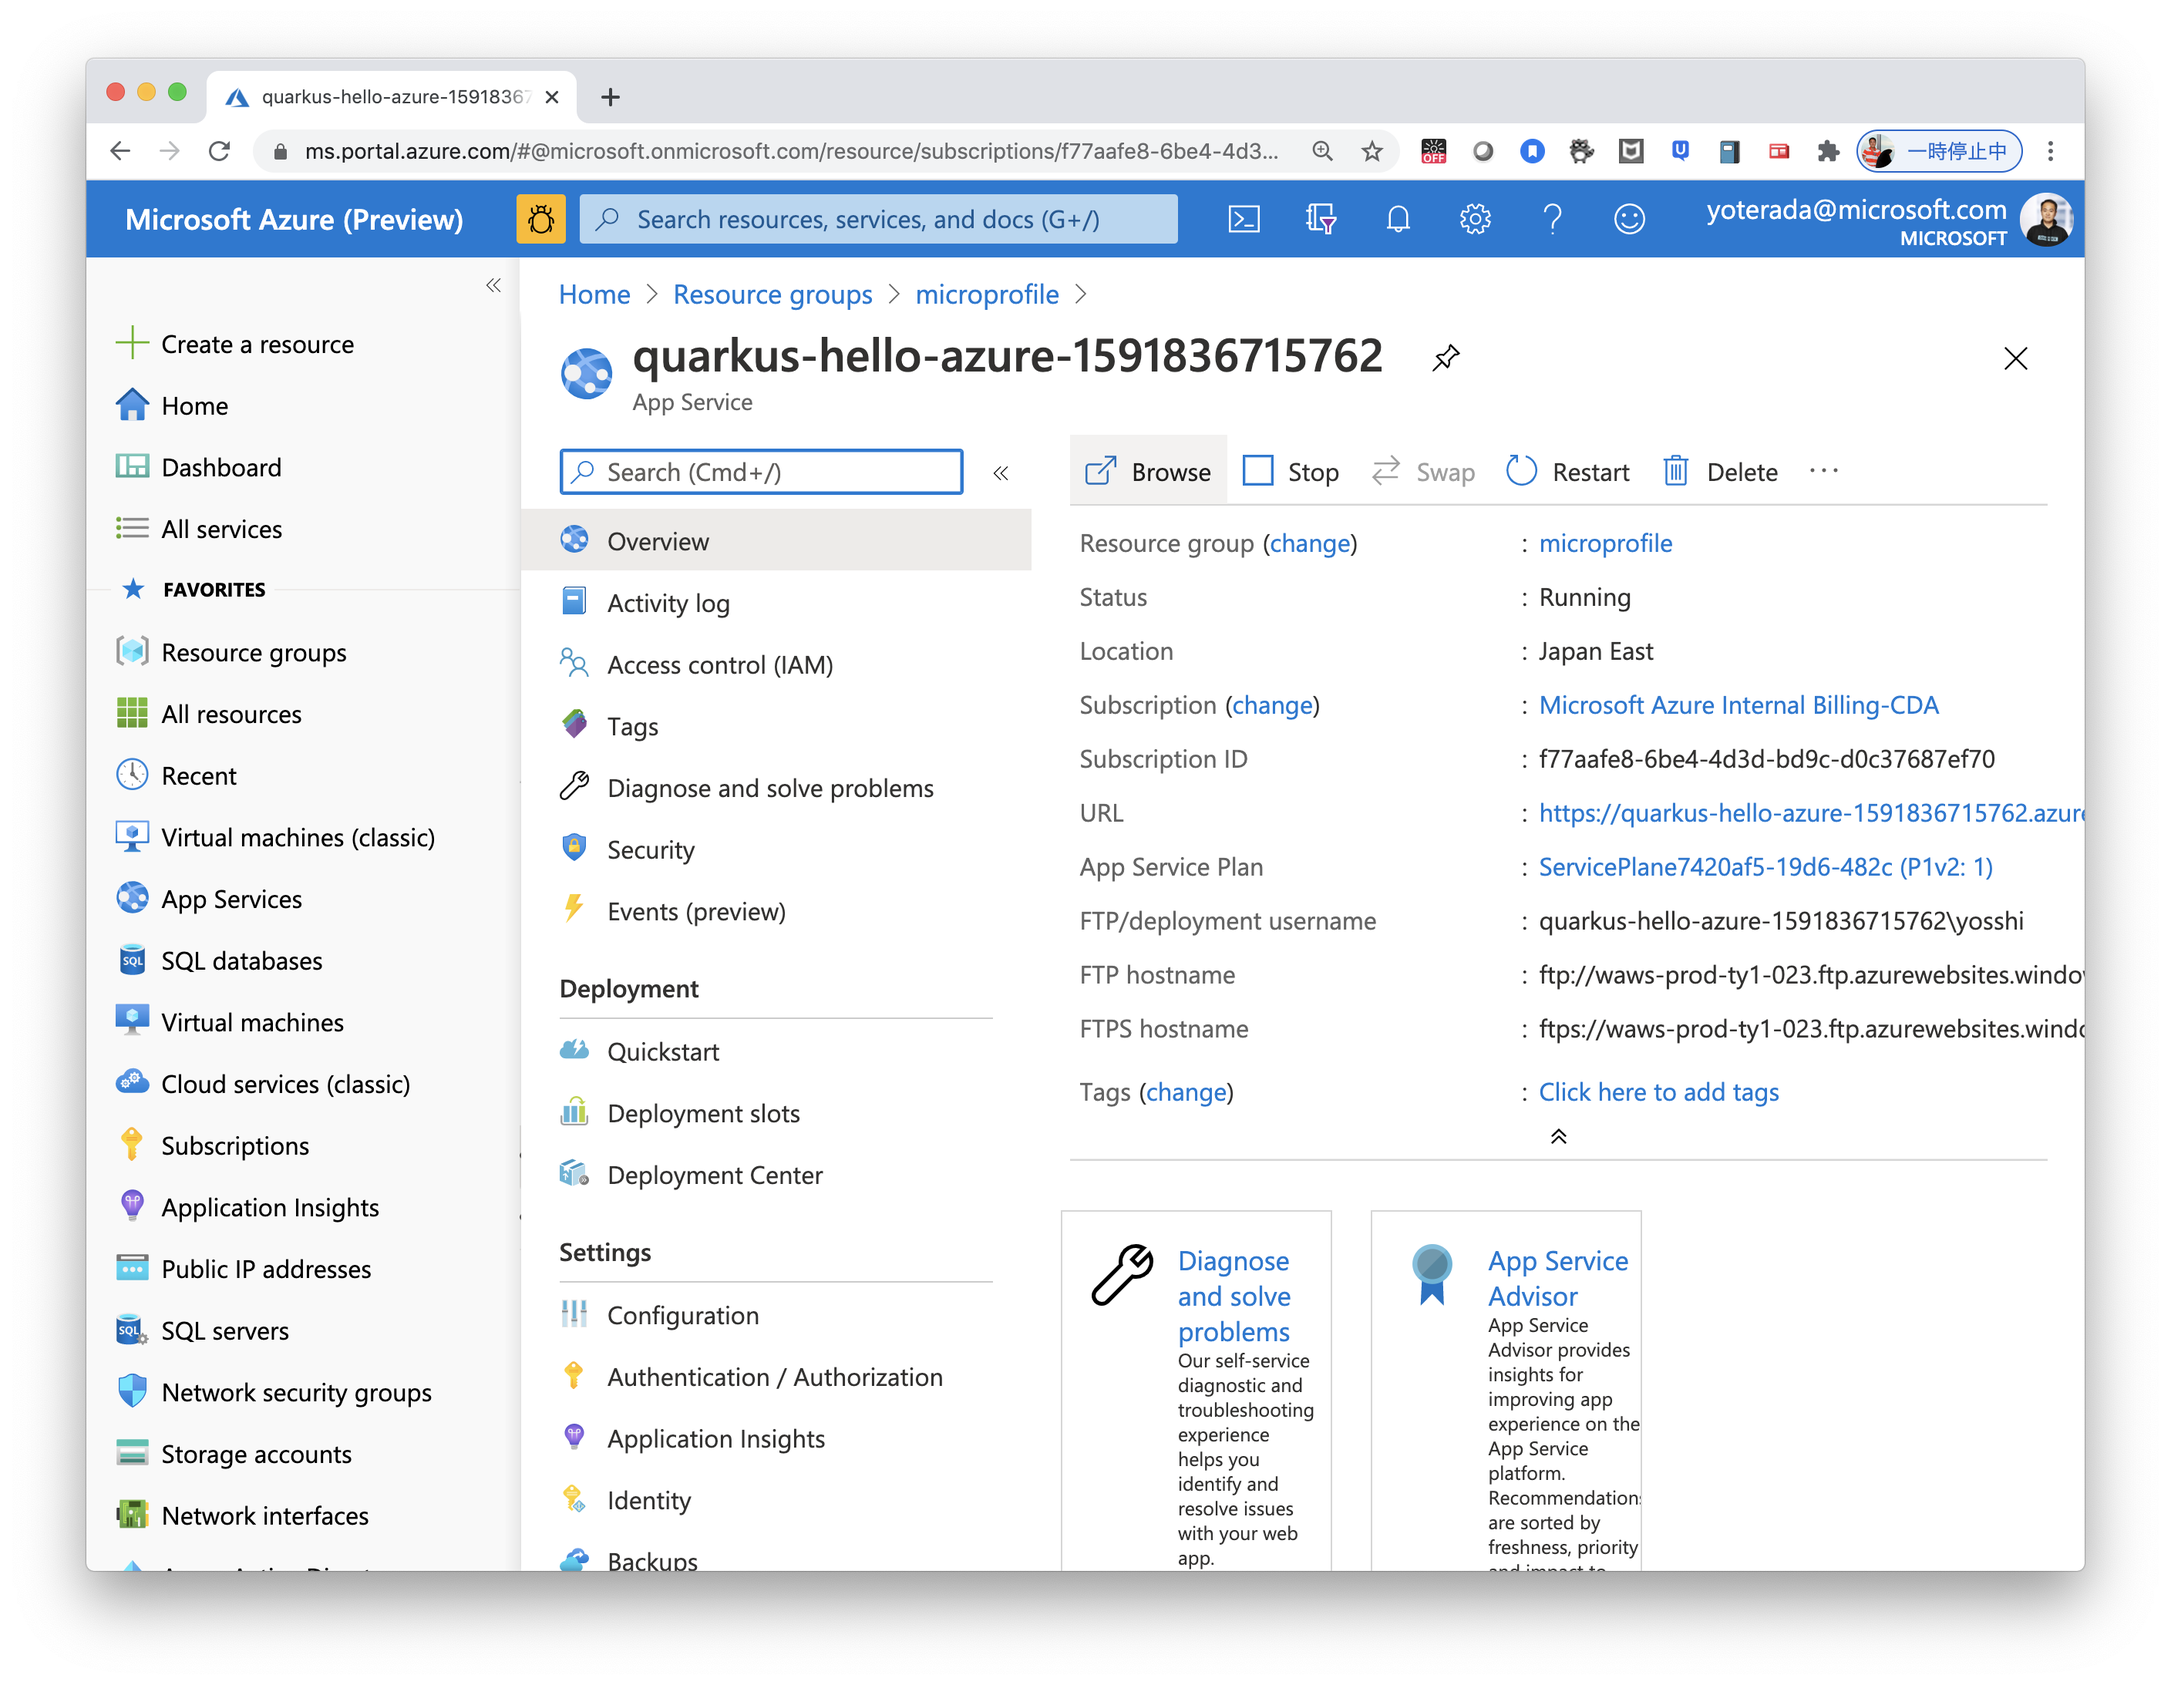
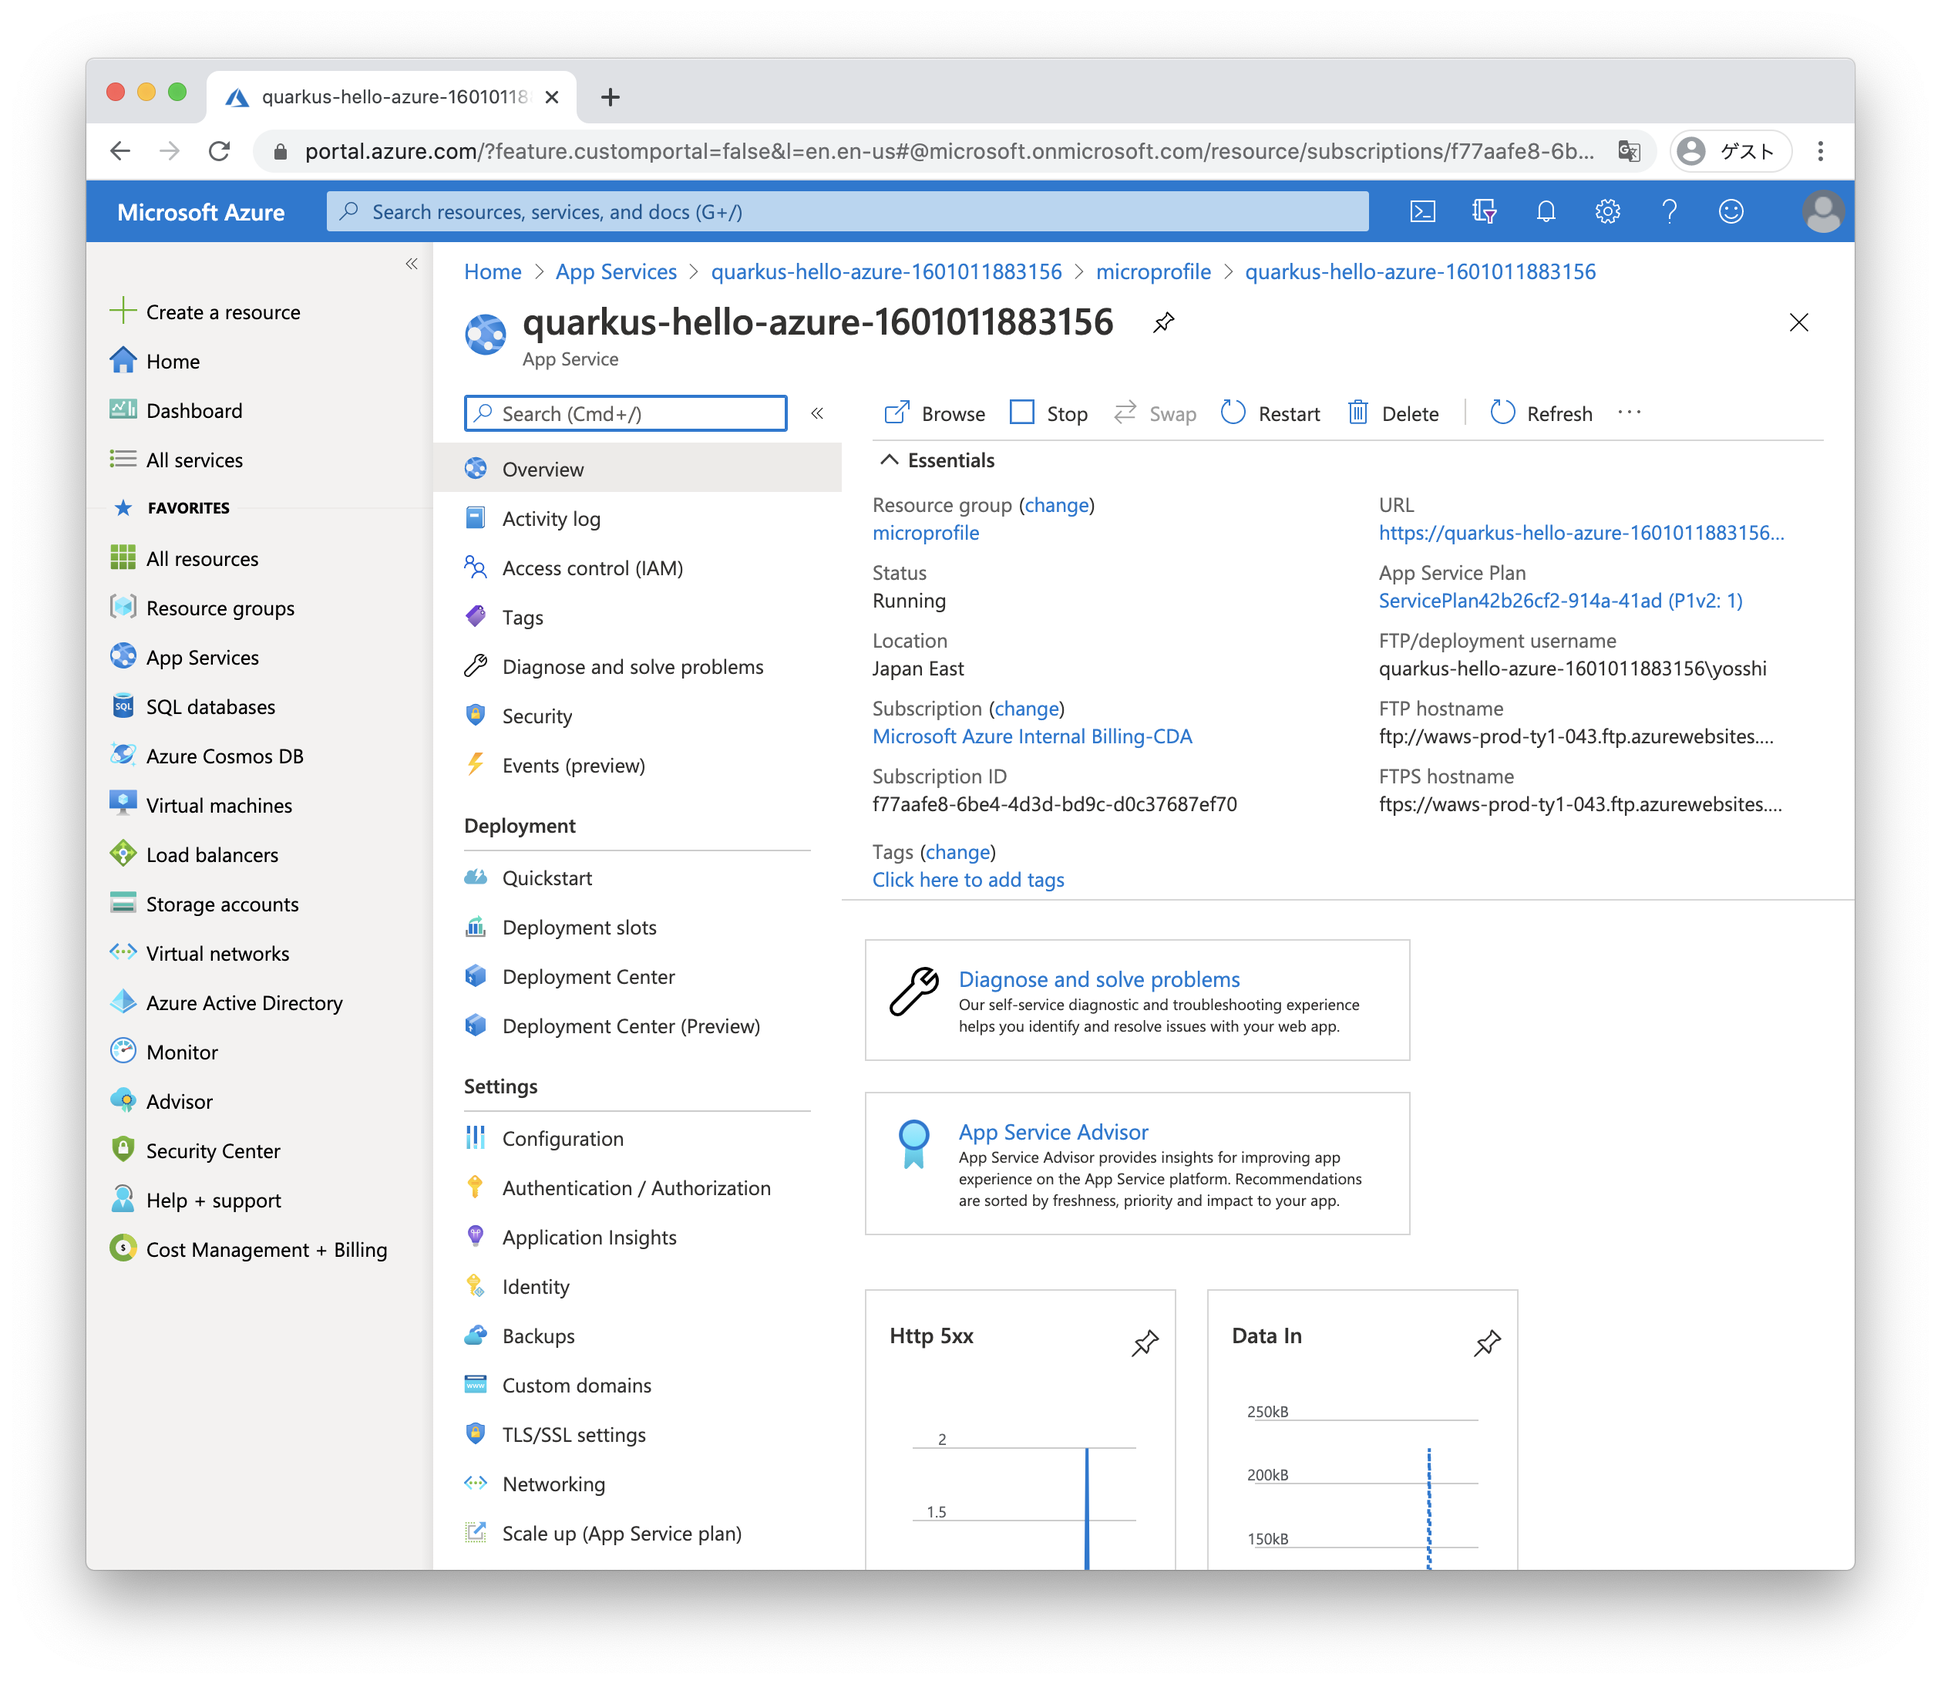
Updated contents and images for Quarkus
Updated contents and images for Quarkus

diff --git a/articles/java/eclipse-microprofile/deploy-microprofile-quarkus-java-app-with-maven-plugin.md b/articles/java/eclipse-microprofile/deploy-microprofile-quarkus-java-app-with-maven-plugin.md
@@ -67,12 +67,13 @@ In this section, you'll create a Quarkus application and test it locally.
 
 In order to create the Java 11 base project, you can execute with following commands:
 
-```bash
-mvn io.quarkus:quarkus-maven-plugin:1.5.2.Final:create \
-  -DprojectGroupId=com.microsoft.azure.samples.quarkus \
-  -DprojectArtifactId=quarkus-hello-azure  \
-  -DclassName="com.microsoft.azure.samples.quarkus.App"
-```
+   ```bash
+   $ mvn io.quarkus:quarkus-maven-plugin:1.8.1.Final:create \
+     -DprojectGroupId=com.microsoft.azure.samples.quarkus \
+     -DprojectArtifactId=quarkus-hello-azure  \
+     -DclassName="com.microsoft.azure.samples.quarkus.App" \
+     -Dpath="/hello"
+   ```
 
 ### Run the application in Local environment
 
@@ -116,7 +117,7 @@ In this section, you'll configure the Quarkus project `pom.xml` so that Maven ca
    <plugin>
      <groupId>com.microsoft.azure</groupId>
      <artifactId>azure-webapp-maven-plugin</artifactId>
-       <version>1.9.1</version>
+       <version>1.10.0</version>
    </plugin>
    ```
 
@@ -138,25 +139,27 @@ In this section, you'll configure the Quarkus project `pom.xml` so that Maven ca
 
    ```bash
    $ mvn azure-webapp:config
+
    [INFO] Scanning for projects...
-   [INFO]
+   [INFO] 
    [INFO] ------< com.microsoft.azure.samples.quarkus:quarkus-hello-azure >-------
    [INFO] Building quarkus-hello-azure 1.0-SNAPSHOT
    [INFO] --------------------------------[ jar ]---------------------------------
-   [INFO]
-   [INFO] --- azure-webapp-maven-plugin:1.9.1:config (default-cli) @ quarkus-hello-azure ---
-   Define value for OS(Default: Linux):
+   [INFO] 
+   [INFO] --- azure-webapp-maven-plugin:1.10.0:config (default-cli) @ quarkus-hello-azure ---
+
+   Define value for OS(Default: Linux): 
    1. linux [*]
    2. windows
    3. docker
-   Enter index to use:
-   Define value for javaVersion(Default: Java 8):
+   Enter index to use: 
+   Define value for javaVersion(Default: Java 8): 
    1. Java 11
    2. Java 8 [*]
    Enter index to use: 1
    Please confirm webapp properties
-   AppName : quarkus-hello-azure-1591836715762
-   ResourceGroup : quarkus-hello-azure-1591836715762-rg
+   AppName : quarkus-hello-azure-1601011883156
+   ResourceGroup : quarkus-hello-azure-1601011883156-rg
    Region : westeurope
    PricingTier : PremiumV2_P1v2
    OS : Linux
@@ -167,8 +170,8 @@ In this section, you'll configure the Quarkus project `pom.xml` so that Maven ca
    [INFO] ------------------------------------------------------------------------
    [INFO] BUILD SUCCESS
    [INFO] ------------------------------------------------------------------------
-   [INFO] Total time:  17.778 s
-   [INFO] Finished at: 2020-06-11T09:52:05+09:00
+   [INFO] Total time:  16.502 s
+   [INFO] Finished at: 2020-09-25T14:31:34+09:00
    [INFO] ------------------------------------------------------------------------
    ```
 
@@ -179,7 +182,7 @@ In this section, you'll configure the Quarkus project `pom.xml` so that Maven ca
       <plugin>
         <groupId>com.microsoft.azure</groupId>  
         <artifactId>azure-webapp-maven-plugin</artifactId>  
-        <version>1.9.1</version>  
+        <version>1.10.0</version>  
         <configuration>
           <schemaVersion>V2</schemaVersion>
           <resourceGroup>microprofile</resourceGroup>
@@ -268,6 +271,17 @@ Once you have configured all of the settings in the preceding sections of this a
 
    ![Find the URL for your web app in Azure portal App Services](./media/Quarkus/Quarkus-Azure-Portal-manage.png)
 
+## Confirm the Log Stream from Running App Service
+
+You can see (or "tail") the logs from the running App Service. Any calls to `console.log` in the site code are displayed in the terminal.
+
+   ```azurecli
+   az webapp log tail -g microprofile -n quarkus-hello-azure-1601011883156
+   ```
+
+   ![Find the URL for your web app in Azure portal App Services](./media/Quarkus/Azrue-CLI-AppService-log-stream.png)
+
+
 ## Clean up Resources
 
 When the Azure resources are no longer needed, clean up the resources you deployed by deleting the resource group.
@@ -282,7 +296,7 @@ When the Azure resources are no longer needed, clean up the resources you deploy
 To learn more about MicroProfile and Azure, continue to the MicroProfile on Azure documentation center.
 
 > [!div class="nextstepaction"]
-> [MicroProfile on Azure](/azure/developer/java/spring-framework)
+> [MicroProfile on Azure](/azure/developer/java/eclipse-microprofile)
 
 ### Additional Resources
 
